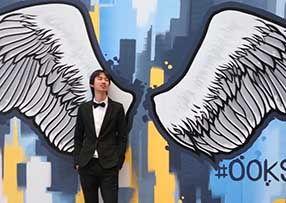
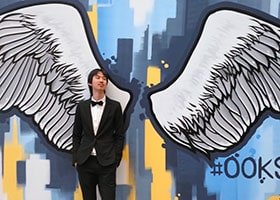
Changed photos - Increased resolutions of photos on the project page - Better blog photos thanks to Aneca

diff --git a/src/views/Projects.vue b/src/views/Projects.vue
@@ -10,11 +10,13 @@
           If you write anything, on your computer, you need to get
           <span style="text-decoration: line-through;">Grammarly</span> Word Counter
         </div>
-        <picture>
-          <source srcset="@/assets/projects/word-counter.webp" type="image/webp" />
-          <source srcset="@/assets/projects/word-counter.jpg" type="image/jpeg" />
-          <img src="@/assets/projects/word-counter.jpg" alt="Ching Chang calculating" draggable="false" />
-        </picture>
+        <div class="image-container">
+          <picture>
+            <source srcset="@/assets/projects/word-counter.webp" type="image/webp" />
+            <source srcset="@/assets/projects/word-counter.jpg" type="image/jpeg" />
+            <img src="@/assets/projects/word-counter.jpg" alt="Ching Chang calculating" draggable="false" />
+          </picture>
+        </div>
       </router-link>
 
       <router-link class="card" :to="{ name: 'TypingSpeedTest' }">
@@ -23,11 +25,13 @@
           Type as fast as you can in 1 minute to check out your typing speed. Can you go any faster
           than my record of 634?
         </div>
-        <picture>
-          <source srcset="@/assets/projects/tst.webp" type="image/webp" />
-          <source srcset="@/assets/projects/tst.jpg" type="image/jpeg" />
-          <img src="@/assets/projects/tst.jpg" alt="Ching Chang typing" draggable="false" />
-        </picture>
+        <div class="image-container">
+          <picture>
+            <source srcset="@/assets/projects/tst.webp" type="image/webp" />
+            <source srcset="@/assets/projects/tst.jpg" type="image/jpeg" />
+            <img src="@/assets/projects/tst.jpg" alt="Ching Chang typing" draggable="false" />
+          </picture>
+        </div>
       </router-link>
 
       <router-link class="card" :to="{ name: 'PhotoGallery' }">
@@ -36,11 +40,13 @@
           A collection of beautiful photos I took around the world. Join me on my journey by
           enjoying these photos :)
         </div>
-        <picture>
-          <source srcset="@/assets/projects/photo-gallery.webp" type="image/webp" />
-          <source srcset="@/assets/projects/photo-gallery.jpg" type="image/jpeg" />
-          <img src="@/assets/projects/photo-gallery.jpg" alt="Photo Gallery" draggable="false" />
-        </picture>
+        <div class="image-container">
+          <picture>
+            <source srcset="@/assets/projects/photo-gallery.webp" type="image/webp" />
+            <source srcset="@/assets/projects/photo-gallery.jpg" type="image/jpeg" />
+            <img src="@/assets/projects/photo-gallery.jpg" alt="Photo Gallery" draggable="false" />
+          </picture>
+        </div>
       </router-link>
 
       <router-link class="card" :to="{ name: 'IOP' }">
@@ -49,11 +55,13 @@
           An IB internal assessment that discusses the impact of society on one's religion using the
           graphic novel <em>Persepolis</em> by Marjane Satrapi
         </div>
-        <picture>
-          <source srcset="@/assets/projects/iop.webp" type="image/webp" />
-          <source srcset="@/assets/projects/iop.jpg" type="image/jpeg" />
-          <img src="@/assets/projects/iop.jpg" alt="IOP" draggable="false" />
-        </picture>
+        <div class="image-container">
+          <picture>
+            <source srcset="@/assets/projects/iop.webp" type="image/webp" />
+            <source srcset="@/assets/projects/iop.jpg" type="image/jpeg" />
+            <img src="@/assets/projects/iop.jpg" alt="IOP" draggable="false" />
+          </picture>
+        </div>
       </router-link>
 
       <router-link class="card" :to="{ name: 'HackerTerminal' }">
@@ -62,11 +70,13 @@
           Click here so I can hack most files from your computer. Make sure you disable VPN and are
           not on a public server
         </div>
-        <picture>
-          <source srcset="@/assets/projects/hacker-terminal.webp" type="image/webp" />
-          <source srcset="@/assets/projects/hacker-terminal.jpg" type="image/jpeg" />
-          <img src="@/assets/projects/hacker-terminal.jpg" alt="Ching Chang the hacker" draggable="false" />
-        </picture>
+        <div class="image-container">
+          <picture>
+            <source srcset="@/assets/projects/hacker-terminal.webp" type="image/webp" />
+            <source srcset="@/assets/projects/hacker-terminal.jpg" type="image/jpeg" />
+            <img src="@/assets/projects/hacker-terminal.jpg" alt="Ching Chang the hacker" draggable="false" />
+          </picture>
+        </div>
       </router-link>
 
       <router-link class="card" :to="{ name: 'MusicHistory' }">
@@ -75,11 +85,13 @@
           A list of all the terms you need to know for Royal Conservatory Music Hisotry Level 9 and
           10 and their definitions
         </div>
-        <picture>
-          <source srcset="@/assets/projects/music-history.webp" type="image/webp" />
-          <source srcset="@/assets/projects/music-history.jpg" type="image/jpeg" />
-          <img src="@/assets/projects/music-history.jpg" alt="Frédéric Chopin" draggable="false" />
-        </picture>
+        <div class="image-container">
+          <picture>
+            <source srcset="@/assets/projects/music-history.webp" type="image/webp" />
+            <source srcset="@/assets/projects/music-history.jpg" type="image/jpeg" />
+            <img src="@/assets/projects/music-history.jpg" alt="Frédéric Chopin" draggable="false" />
+          </picture>
+        </div>
       </router-link>
 
       <a class="card" href="https://www.dorpn.com" target="_blank" rel="noopener noreferrer">
@@ -88,11 +100,13 @@
           A chat site that does not need you to sign up! Outstanding for makeshift groups as it's
           simple, fast, and that your chat room will be auto-deleted after 2 weeks
         </div>
-        <picture>
-          <source srcset="@/assets/projects/dorpn.webp" type="image/webp" />
-          <source srcset="@/assets/projects/dorpn.jpg" type="image/jpeg" />
-          <img src="@/assets/projects/dorpn.jpg" alt="Dorpn" draggable="false" />
-        </picture>
+        <div class="image-container">
+          <picture>
+            <source srcset="@/assets/projects/dorpn.webp" type="image/webp" />
+            <source srcset="@/assets/projects/dorpn.jpg" type="image/jpeg" />
+            <img src="@/assets/projects/dorpn.jpg" alt="Dorpn" draggable="false" />
+          </picture>
+        </div>
       </a>
 
       <router-link class="card" :to="{ name: 'FrozenCountdown' }">
@@ -101,11 +115,13 @@
           A countdown timer to show the time left until Frozen 2 to come out for the first time in
           forever!
         </div>
-        <picture>
-          <source srcset="@/assets/projects/frozen-countdown.webp" type="image/webp" />
-          <source srcset="@/assets/projects/frozen-countdown.jpg" type="image/jpeg" />
-          <img src="@/assets/projects/frozen-countdown.jpg" alt="Ice Castle" draggable="false" />
-        </picture>
+        <div class="image-container">
+          <picture>
+            <source srcset="@/assets/projects/frozen-countdown.webp" type="image/webp" />
+            <source srcset="@/assets/projects/frozen-countdown.jpg" type="image/jpeg" />
+            <img src="@/assets/projects/frozen-countdown.jpg" alt="Ice Castle" draggable="false" />
+          </picture>
+        </div>
       </router-link>
 
       <router-link class="card" :to="{ name: 'IBTimer' }">
@@ -114,11 +130,13 @@
           Humans start hallucinating after 3 to 4 days without sleep. Is it true or false? Only one
           way to find out
         </div>
-        <picture>
-          <source srcset="@/assets/projects/ib-timer.webp" type="image/webp" />
-          <source srcset="@/assets/projects/ib-timer.jpg" type="image/jpeg" />
-          <img src="@/assets/projects/ib-timer.jpg" alt="IB Timer" draggable="false" />
-        </picture>
+        <div class="image-container">
+          <picture>
+            <source srcset="@/assets/projects/ib-timer.webp" type="image/webp" />
+            <source srcset="@/assets/projects/ib-timer.jpg" type="image/jpeg" />
+            <img src="@/assets/projects/ib-timer.jpg" alt="IB Timer" draggable="false" />
+          </picture>
+        </div>
       </router-link>
 
       <router-link class="card" :to="{ name: 'Poems' }">
@@ -126,11 +144,13 @@
         <div class="description">
           Relatable stories expressed through clever rhymes and beautiful metaphors
         </div>
-        <picture>
-          <source srcset="@/assets/projects/poems.webp" type="image/webp" />
-          <source srcset="@/assets/projects/poems.jpg" type="image/jpeg" />
-          <img src="@/assets/projects/poems.jpg" alt="William Shakespeare Ricardo Milos Hit or Miss" draggable="false" />
-        </picture>
+        <div class="image-container">
+          <picture>
+            <source srcset="@/assets/projects/poems.webp" type="image/webp" />
+            <source srcset="@/assets/projects/poems.jpg" type="image/jpeg" />
+            <img src="@/assets/projects/poems.jpg" alt="William Shakespeare Ricardo Milos Hit or Miss" draggable="false" />
+          </picture>
+        </div>
       </router-link>
 
       <a class="card" href="https://wread.netlify.com" target="_blank" rel="noopener noreferrer">
@@ -139,11 +159,13 @@
           A JA Company that strives to promote literacy for all ages, and spread knowledge,
           communication, and creativity to our world
         </div>
-        <picture>
-          <source srcset="@/assets/projects/wread.webp" type="image/webp" />
-          <source srcset="@/assets/projects/wread.jpg" type="image/jpeg" />
-          <img src="@/assets/projects/wread.jpg" alt="Wread" draggable="false" />
-        </picture>
+        <div class="image-container">
+          <picture>
+            <source srcset="@/assets/projects/wread.webp" type="image/webp" />
+            <source srcset="@/assets/projects/wread.jpg" type="image/jpeg" />
+            <img src="@/assets/projects/wread.jpg" alt="Wread" draggable="false" />
+          </picture>
+        </div>
       </a>
 
       <router-link class="card" :to="{ name: 'Quotes' }">
@@ -151,11 +173,13 @@
         <div class="description">
           Motivational quotes that carry the important mindsets that make you a better person
         </div>
-        <picture>
-          <source srcset="@/assets/projects/quotes.webp" type="image/webp" />
-          <source srcset="@/assets/projects/quotes.jpg" type="image/jpeg" />
-          <img src="@/assets/projects/quotes.jpg" alt="Ching Chang the thinker" draggable="false" />
-        </picture>
+        <div class="image-container">
+          <picture>
+            <source srcset="@/assets/projects/quotes.webp" type="image/webp" />
+            <source srcset="@/assets/projects/quotes.jpg" type="image/jpeg" />
+            <img src="@/assets/projects/quotes.jpg" alt="Ching Chang the thinker" draggable="false" />
+          </picture>
+        </div>
       </router-link>
 
       <router-link class="card" :to="{ name: 'GradeCalculator' }">
@@ -164,11 +188,13 @@
           Calculate how your average would change if you get a certain score on an assessment, or
           calculate how much you need to score to get a certain average (In development)
         </div>
-        <picture>
-          <source srcset="@/assets/projects/grade-calculator.webp" type="image/webp" />
-          <source srcset="@/assets/projects/grade-calculator.jpg" type="image/jpeg" />
-          <img src="@/assets/projects/grade-calculator.jpg" alt="Ching Chang living his life" draggable="false" />
-        </picture>
+        <div class="image-container">
+          <picture>
+            <source srcset="@/assets/projects/grade-calculator.webp" type="image/webp" />
+            <source srcset="@/assets/projects/grade-calculator.jpg" type="image/jpeg" />
+            <img src="@/assets/projects/grade-calculator.jpg" alt="Ching Chang living his life" draggable="false" />
+          </picture>
+        </div>
       </router-link>
 
       <router-link class="card" :to="{ name: 'MemeGenerator' }">
@@ -176,11 +202,13 @@
         <div class="description">
           Put in a short piece of text and this will turn it into a spongebob mocking meme!
         </div>
-        <picture>
-          <source srcset="@/assets/projects/meme-generator.webp" type="image/webp" />
-          <source srcset="@/assets/projects/meme-generator.jpg" type="image/jpeg" />
-          <img src="@/assets/projects/meme-generator.jpg" alt="Spongebob Mocking Meme" draggable="false" />
-        </picture>
+        <div class="image-container">
+          <picture>
+            <source srcset="@/assets/projects/meme-generator.webp" type="image/webp" />
+            <source srcset="@/assets/projects/meme-generator.jpg" type="image/jpeg" />
+            <img src="@/assets/projects/meme-generator.jpg" alt="Spongebob Mocking Meme" draggable="false" />
+          </picture>
+        </div>
       </router-link>
     </div>
   </div>
@@ -232,9 +260,10 @@ export default {
     border-radius: 4px;
     width: 280px;
     height: 365px;
+    min-width: 280px;
     text-align: center;
-    margin: 0 10px 40px 10px;
-    padding: 10px 16px 10px 10px;
+    margin: 0 10px 40px;
+    padding: 10px 13px;
     text-decoration: none;
     box-shadow: inset -1px -1px 4px $black, 0 4px 12px rgba($black, 0.3);
     transform: translateY(100px);
@@ -253,11 +282,20 @@ export default {
       height: 110px;
       color: $black;
     }
-    img {
-      border: 3px dotted $secondary-colour;
-      border-radius: 3px;
+    .image-container {
+      display: flex;
       width: 100%;
       height: 200px;
+      margin-left: -3px;
+      border: 3px dotted $secondary-colour;
+      border-radius: 3px;
+      overflow: hidden;
+      img {
+        width: 100%;
+        height: 100%;
+        justify-content: center;
+        align-items: center;
+      }
     }
     &.slide-up {
       transition-duration: 0.8s;
@@ -268,34 +306,6 @@ export default {
         box-shadow: inset -1px -1px 4px $black, 2px 6px 12px rgba($black, 0.9);
         transform: translateY(-8px);
       }
-    }
-  }
-}
-
-@media (max-width: 400px) {
-  #projects .card {
-    margin: 0 0 40px;
-    .description {
-      font-size: 17px;
-    }
-  }
-}
-
-@media (max-width: 400px) {
-  #projects .card {
-    margin: 0 0 30px;
-    .description {
-      font-size: 17px;
-    }
-  }
-}
-@media (max-width: 320px) {
-  #projects .card {
-    .title {
-      font-size: 25px;
-    }
-    .description {
-      font-size: 14px;
     }
   }
 }

diff --git a/src/views/Home.vue b/src/views/Home.vue
@@ -22,9 +22,9 @@
           <div class="sub-title">Most people are born innocent, but I was born fake</div>
           <div class="info">November 8, 2019 • 5 minute read</div>
           <picture>
-            <source srcset="@/assets/pictures/feature.webp" type="image/webp" />
-            <source srcset="@/assets/pictures/feature.jpg" type="image/jpeg" />
-            <img src="@/assets/pictures/feature.jpg" alt="Ching Chang" />
+            <source srcset="@/assets/pictures/featured.webp" type="image/webp" />
+            <source srcset="@/assets/pictures/featured.jpg" type="image/jpeg" />
+            <img src="@/assets/pictures/featured.jpg" alt="Ching Chang" />
           </picture>
         </router-link>
         <router-link class="card" :to="{ name: 'NoHopeForMercy' }">
@@ -33,9 +33,9 @@
           <div class="sub-title">Most people are born innocent, but I was born fake</div>
           <div class="info">November 8, 2019 • 5 minute read</div>
           <picture>
-            <source srcset="@/assets/pictures/feature.webp" type="image/webp" />
-            <source srcset="@/assets/pictures/feature.jpg" type="image/jpeg" />
-            <img src="@/assets/pictures/feature.jpg" alt="Ching Chang" />
+            <source srcset="@/assets/pictures/featured.webp" type="image/webp" />
+            <source srcset="@/assets/pictures/featured.jpg" type="image/jpeg" />
+            <img src="@/assets/pictures/featured.jpg" alt="Ching Chang" />
           </picture>
         </router-link>
         <router-link class="card" :to="{ name: 'Contact' }">

diff --git a/src/views/Error.vue b/src/views/Error.vue
@@ -1,5 +1,5 @@
 <template>
-  <div style="font-size: 18px;">
+  <div>
     <h1>Page Not Found</h1>
     <h3>The link that you entered never existed or doesn't work anymore</h3>
     <h3>Click <router-link :to="{ name: 'Home' }">here</router-link> to go back to the home page</h3>
@@ -11,3 +11,14 @@ export default {
   name: "Error"
 }
 </script>
+
+<style lang="scss" scoped>
+h1, h3 {
+  background-color: $white;
+  display: table;
+  font-size: 36px;
+}
+h3 {
+  font-size: 22px;
+}
+</style>
